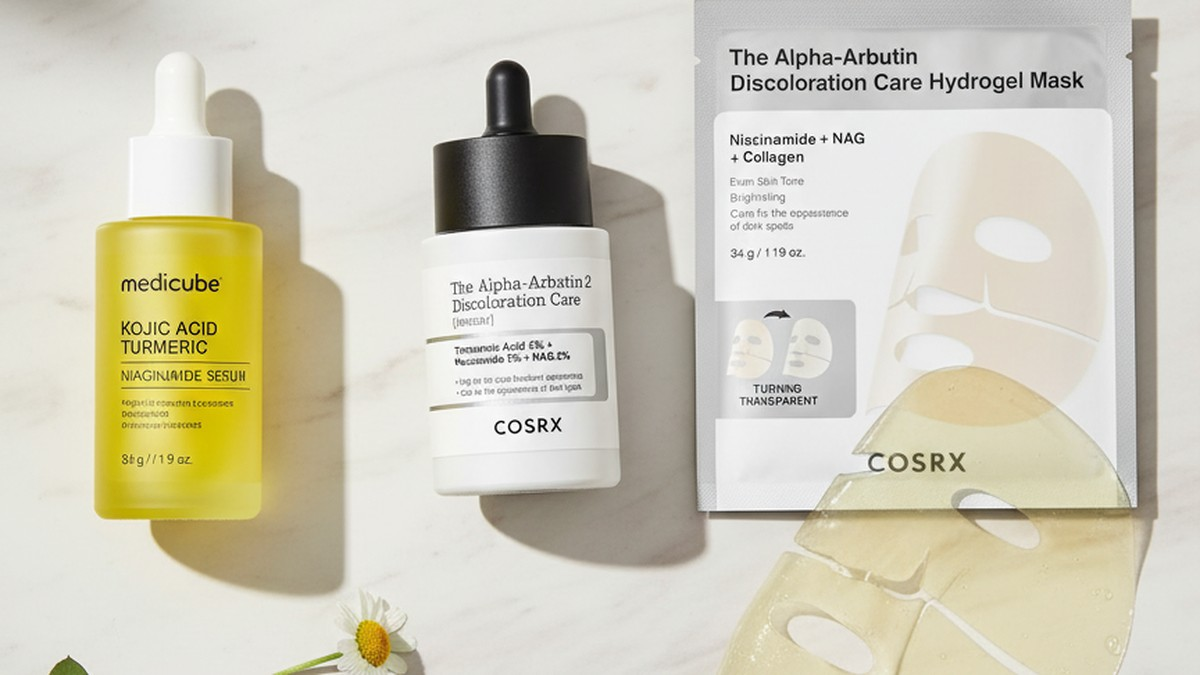
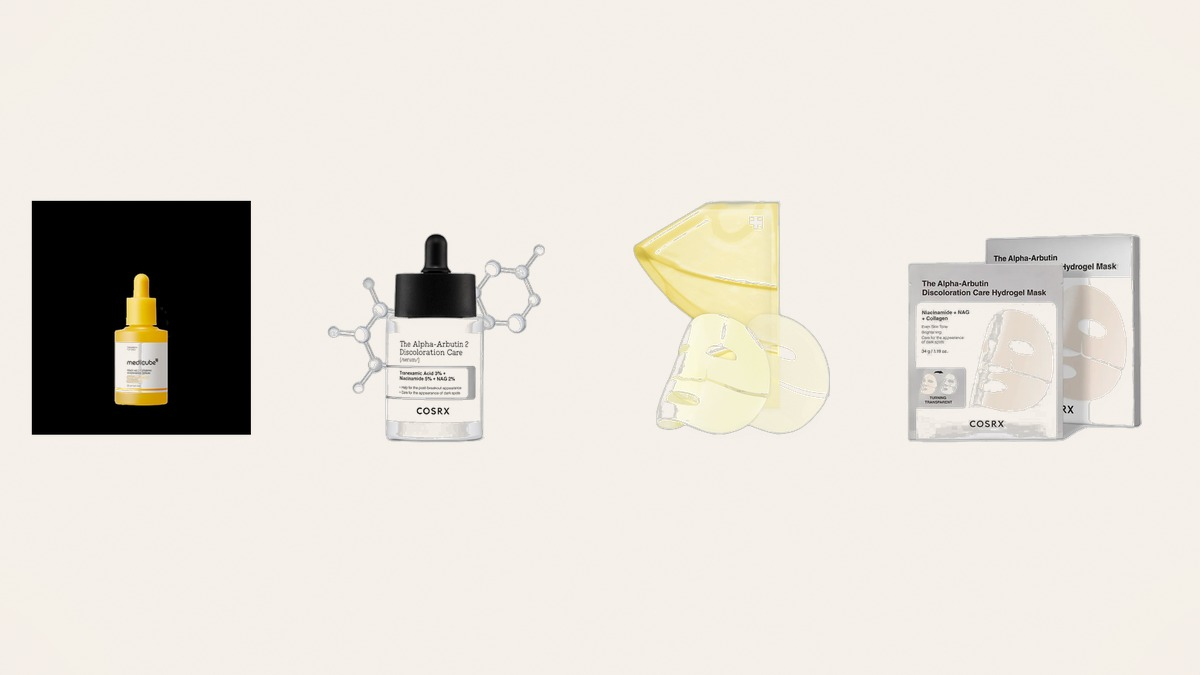
Glow-coded heroes: replace Gemini-composed images with PIL composites of real Shopify product photos
Previous Gemini 2.5 Flash Image regeneration garbled all label text — products
looked authentic at a glance but failed close inspection (e.g. "Cotton" became
"Cetom", "Synergy" became "STNERGY", ingredient lists became gibberish).

New pipeline composites the actual Shopify og:image product photos with PIL —
no AI involvement on product pixels. Labels, brand names, ingredient lists, and
Korean characters are preserved exactly as they came from mirai-skin.com.

Per-article logic:
- "X vs Y" articles → 2-up side-by-side, balanced one product per brand
- Listicles / guides → 3-4 product grid composition
- Soft cream background + transparent product cutouts via near-white masking
- 1200×675 16:9 output at JPEG q92

30/30 composed, 0 failures. Build verified clean (800 pages).

diff --git a/scripts/compose_hero_pil.py b/scripts/compose_hero_pil.py
@@ -1,0 +1,360 @@
+#!/usr/bin/env python3
+"""
+Build hero images by COMPOSITING real Shopify product photos with PIL.
+
+No AI involvement on the product pixels — labels, text, ingredients stay
+exactly as they came from mirai-skin.com. PIL handles:
+  - Layout (2-up for comparisons, 3-4 grid for listicles)
+  - Soft cream/marble background
+  - Drop shadows
+  - Crop to 1200×675 (16:9)
+
+Usage:
+    python3 scripts/compose_hero_pil.py --site cosmetics
+    python3 scripts/compose_hero_pil.py --site cosmetics --slug <slug>
+    python3 scripts/compose_hero_pil.py --site cosmetics --dry-run
+"""
+from __future__ import annotations
+import argparse
+import io
+import os
+import re
+import sys
+import time
+from pathlib import Path
+from urllib.parse import urljoin
+
+import requests
+from PIL import Image, ImageFilter, ImageDraw
+
+ROOT = Path(__file__).resolve().parent.parent
+PRODUCTS_CACHE = Path("/tmp/hero-gen-from-article/products")
+PRODUCTS_CACHE.mkdir(parents=True, exist_ok=True)
+
+SITES = {
+    "cosmetics": ROOT / "cosmetics",
+    "wellness": ROOT / "wellness",
+    "build-coded": ROOT / "build-coded",
+}
+
+session = requests.Session()
+session.headers.update({
+    "User-Agent": "Mozilla/5.0 (Macintosh; Intel Mac OS X 10_15_7) AppleWebKit/537.36 Chrome/124 Safari/537.36",
+    "Accept": "text/html,application/xhtml+xml,application/xml;q=0.9,image/*,*/*;q=0.8",
+})
+
+PRODUCT_LINK_RE = re.compile(r"mirai-skin\.com/products/([a-z0-9-]+)", re.I)
+
+# Hero canvas
+W, H = 1200, 675
+
+# Soft cream-marble background (procedural, no external file needed)
+def make_background():
+    bg = Image.new("RGB", (W, H), (250, 245, 238))
+    # Add subtle veining via overlaid noise
+    noise = Image.effect_noise((W, H), 8).convert("RGB")
+    bg = Image.blend(bg, noise, 0.04)
+    # Soft vignette
+    vignette = Image.new("L", (W, H), 0)
+    d = ImageDraw.Draw(vignette)
+    d.ellipse((-200, -150, W + 200, H + 150), fill=255)
+    vignette = vignette.filter(ImageFilter.GaussianBlur(120))
+    bg.putalpha(vignette)
+    final = Image.new("RGB", (W, H), (242, 235, 226))
+    final.paste(bg, (0, 0), bg)
+    return final
+
+
+def parse_mdx(path: Path):
+    text = path.read_text()
+    m = re.match(r"^---\s*\n(.*?)\n---\s*\n(.*)$", text, re.S)
+    if not m:
+        return None, None
+    return m.group(1), m.group(2)
+
+
+def download_product_image(handle: str) -> Path | None:
+    cache = PRODUCTS_CACHE / f"{handle}.jpg"
+    if cache.exists() and cache.stat().st_size > 8000:
+        return cache
+    page = f"https://mirai-skin.com/products/{handle}"
+    try:
+        r = session.get(page, timeout=15, allow_redirects=True)
+        if r.status_code != 200:
+            return None
+        m = re.search(r'<meta\s+property="og:image"\s+content="([^"]+)"', r.text)
+        if not m:
+            return None
+        img_url = m.group(1)
+        if img_url.startswith("//"):
+            img_url = "https:" + img_url
+        elif not img_url.startswith("http"):
+            img_url = urljoin(page, img_url)
+        img_url = re.sub(r"\?.*$", "", img_url)
+        rr = session.get(img_url, timeout=20)
+        if rr.status_code != 200:
+            return None
+        cache.write_bytes(rr.content)
+        return cache
+    except Exception as e:
+        print(f"      [{handle}] download error: {e}")
+        return None
+
+
+def trim_to_content(img: Image.Image, threshold=240) -> Image.Image:
+    """Crop near-white borders (most Shopify shots are on pure white)."""
+    rgb = img.convert("RGB")
+    bbox = None
+    # Get the bounding box of non-white pixels
+    grayscale = rgb.point(lambda v: 0 if v >= threshold else 255).convert("L")
+    bbox = grayscale.getbbox()
+    if bbox:
+        # add 6% margin
+        x1, y1, x2, y2 = bbox
+        mx = int((x2 - x1) * 0.06)
+        my = int((y2 - y1) * 0.06)
+        x1 = max(0, x1 - mx); y1 = max(0, y1 - my)
+        x2 = min(rgb.width, x2 + mx); y2 = min(rgb.height, y2 + my)
+        rgb = rgb.crop((x1, y1, x2, y2))
+    return rgb
+
+
+def make_alpha_from_white(img: Image.Image, white_threshold=245) -> Image.Image:
+    """Make near-white pixels transparent so the product sits on the background.
+    Simple heuristic — works for clean Shopify product shots on white BG."""
+    img = img.convert("RGBA")
+    pixels = img.getdata()
+    new = []
+    for r, g, b, a in pixels:
+        if r >= white_threshold and g >= white_threshold and b >= white_threshold:
+            new.append((r, g, b, 0))
+        elif r >= 230 and g >= 230 and b >= 230:
+            # Soft edge — partial transparency for anti-aliasing
+            alpha = max(0, 255 - (min(r, g, b) - 230) * 25)
+            new.append((r, g, b, alpha))
+        else:
+            new.append((r, g, b, a))
+    img.putdata(new)
+    return img
+
+
+def add_shadow(img: Image.Image, offset=(8, 12), blur=14, opacity=70) -> Image.Image:
+    """Add a soft drop shadow under a product (RGBA)."""
+    shadow_layer = Image.new("RGBA", (img.width + offset[0]*2 + blur*2,
+                                       img.height + offset[1]*2 + blur*2), (0, 0, 0, 0))
+    # Shadow is a blurred copy of the product silhouette, dark
+    silhouette = Image.new("RGBA", img.size, (0, 0, 0, 0))
+    sil_pixels = []
+    for r, g, b, a in img.getdata():
+        sil_pixels.append((40, 40, 40, int(a * opacity / 255)))
+    silhouette.putdata(sil_pixels)
+    shadow_layer.paste(silhouette, (offset[0] + blur, offset[1] + blur), silhouette)
+    shadow_layer = shadow_layer.filter(ImageFilter.GaussianBlur(blur))
+    # Now paste original on top
+    final = Image.new("RGBA", shadow_layer.size, (0, 0, 0, 0))
+    final.paste(shadow_layer, (0, 0), shadow_layer)
+    final.paste(img, (blur, blur), img)
+    return final
+
+
+def fit_product(img: Image.Image, max_h: int) -> Image.Image:
+    """Resize so height is max_h, maintaining aspect."""
+    if img.height == max_h:
+        return img
+    new_w = int(img.width * (max_h / img.height))
+    return img.resize((new_w, max_h), Image.LANCZOS)
+
+
+def compose_2_up(products: list[Path], out_path: Path):
+    """Side-by-side comparison layout."""
+    bg = make_background()
+    target_h = int(H * 0.72)
+    items = []
+    for p in products[:2]:
+        img = Image.open(p)
+        img = trim_to_content(img)
+        img = make_alpha_from_white(img)
+        img = fit_product(img, target_h)
+        img = add_shadow(img)
+        items.append(img)
+    if len(items) < 2:
+        return False
+    # Center two products with gap
+    gap = 80
+    total_w = items[0].width + items[1].width + gap
+    x = (W - total_w) // 2
+    y = (H - max(items[0].height, items[1].height)) // 2
+    for img in items:
+        bg.paste(img, (x, y + (H - img.height) // 2 - y), img)
+        x += img.width + gap
+    bg.save(out_path, "JPEG", quality=92)
+    return True
+
+
+def compose_grid(products: list[Path], out_path: Path):
+    """3-4 product flat-lay grid."""
+    bg = make_background()
+    n = len(products[:4])
+    target_h = int(H * 0.55) if n <= 3 else int(H * 0.45)
+    items = []
+    for p in products[:4]:
+        img = Image.open(p)
+        img = trim_to_content(img)
+        img = make_alpha_from_white(img)
+        img = fit_product(img, target_h)
+        img = add_shadow(img)
+        items.append(img)
+    if len(items) < 2:
+        return False
+
+    if n == 2:
+        return compose_2_up(products, out_path)
+    if n == 3:
+        # Triangle: 2 on top, 1 centered below
+        gap_x = 60
+        top_total = items[0].width + items[1].width + gap_x
+        x = (W - top_total) // 2
+        y = int(H * 0.05)
+        bg.paste(items[0], (x, y), items[0])
+        bg.paste(items[1], (x + items[0].width + gap_x, y), items[1])
+        x3 = (W - items[2].width) // 2
+        y3 = H - items[2].height - int(H * 0.05)
+        bg.paste(items[2], (x3, y3), items[2])
+    else:
+        # 4 = single row spread across width with slight stagger for editorial feel
+        gap = 30
+        total_w = sum(it.width for it in items[:4]) + gap * 3
+        if total_w > W - 60:
+            scale = (W - 60) / total_w
+            items = [fit_product(it, int(it.height * scale)) for it in items[:4]]
+            total_w = sum(it.width for it in items[:4]) + gap * 3
+        x = (W - total_w) // 2
+        y_center = H // 2
+        for i, img in enumerate(items[:4]):
+            stagger = -10 if i % 2 == 0 else 10
+            bg.paste(img, (x, y_center - img.height // 2 + stagger), img)
+            x += img.width + gap
+
+    bg.save(out_path, "JPEG", quality=92)
+    return True
+
+
+def slug_from_handle_pair(slug: str) -> tuple[str, str] | None:
+    """For X-vs-Y articles, extract the two key terms."""
+    m = re.match(r"^(.+?)-vs-(.+)$", slug)
+    if m:
+        return m.group(1), m.group(2)
+    return None
+
+
+def collect_drafts(site_dir: Path):
+    en = site_dir / "src" / "content" / "blog" / "en"
+    out = []
+    for f in sorted(en.glob("*.mdx")):
+        fm, body = parse_mdx(f)
+        if not fm or body is None:
+            continue
+        is_draft = bool(re.search(r"^draft:\s*true\s*$", fm, re.M))
+        if not is_draft:
+            continue
+        title_m = re.search(r'title:\s*"([^"]+)"', fm)
+        image_m = re.search(r"^image:\s*([^\n]+)", fm, re.M)
+        handles = list(dict.fromkeys(PRODUCT_LINK_RE.findall(body)))
+        if not handles:
+            continue
+
+        # For "X vs Y" articles, pick one handle from each side of the comparison.
+        # Match by brand keywords in the handle, NOT by accidental token overlap.
+        title = title_m.group(1) if title_m else f.stem
+        is_comparison = " vs " in title.lower()
+        if is_comparison:
+            pair = slug_from_handle_pair(f.stem)
+            if pair:
+                left, right = pair
+                # Use first 2 tokens as brand keywords (e.g. "abib-heartleaf" → ["abib", "heartleaf"])
+                left_kws = left.split("-")[:2]
+                right_kws = right.split("-")[:2]
+
+                def matches_side(handle: str, side_kws: list, other_kws: list) -> bool:
+                    # Must include at least one side keyword AND not be dominated by other-side keyword
+                    h_lower = handle.lower()
+                    has_side = any(kw in h_lower for kw in side_kws)
+                    # Exclude if it leads with the OTHER side's primary brand
+                    starts_other = any(h_lower.startswith(kw + "-") for kw in other_kws[:1])
+                    return has_side and not starts_other
+
+                left_match = next((h for h in handles if matches_side(h, left_kws, right_kws)), None)
+                right_match = next((h for h in handles if matches_side(h, right_kws, left_kws) and h != left_match), None)
+
+                if left_match and right_match:
+                    handles = [left_match, right_match]
+                else:
+                    # Couldn't balance — keep the original ordering but cap to 2
+                    handles = handles[:2]
+
+        out.append({
+            "path": f,
+            "slug": f.stem,
+            "title": title,
+            "image_rel": image_m.group(1).strip() if image_m else f"/images/{f.stem}.jpg",
+            "handles": handles[:4],
+            "is_comparison": " vs " in title.lower(),
+        })
+    return out
+
+
+def main():
+    ap = argparse.ArgumentParser()
+    ap.add_argument("--site", required=True, choices=list(SITES.keys()))
+    ap.add_argument("--slug")
+    ap.add_argument("--dry-run", action="store_true")
+    ap.add_argument("--limit", type=int)
+    args = ap.parse_args()
+
+    site_dir = SITES[args.site]
+    drafts = collect_drafts(site_dir)
+    if args.slug:
+        drafts = [d for d in drafts if d["slug"] == args.slug]
+    if args.limit:
+        drafts = drafts[: args.limit]
+
+    print(f"[{args.site}] {len(drafts)} drafts to compose heroes for\n")
+
+    success, fail = 0, 0
+    for d in drafts:
+        layout = "2-up (vs)" if d["is_comparison"] else f"{len(d['handles'])}-grid"
+        print(f"  → {d['slug']}  [{layout}]")
+        for h in d["handles"][:4]:
+            print(f"    - {h}")
+        if args.dry_run:
+            print()
+            continue
+
+        prod_paths = []
+        for h in d["handles"][:4]:
+            p = download_product_image(h)
+            if p:
+                prod_paths.append(p)
+            else:
+                print(f"    [{h}] FAIL download")
+
+        if len(prod_paths) < 2:
+            print("    SKIP: <2 product photos available\n")
+            fail += 1
+            continue
+
+        out_path = site_dir / "public" / d["image_rel"].lstrip("/")
+        ok = (compose_2_up(prod_paths, out_path) if d["is_comparison"]
+              else compose_grid(prod_paths, out_path))
+        if ok:
+            print(f"    SAVED → {out_path.relative_to(ROOT)}\n")
+            success += 1
+        else:
+            print(f"    FAIL: compose error\n")
+            fail += 1
+
+    print(f"\n[done] {success} composed, {fail} failed")
+
+
+if __name__ == "__main__":
+    main()

diff --git a/scripts/regen_hero_from_article.py b/scripts/regen_hero_from_article.py
@@ -60,12 +60,17 @@ session.headers.update({
 PRODUCT_LINK_RE = re.compile(r"mirai-skin\.com/products/([a-z0-9-]+)", re.I)
 
 GLOW_PROMPT = (
-    "Create a flat-lay product photograph in landscape 16:9 ratio. "
-    "Place these Korean skincare products on a soft cream-colored marble surface "
-    "with diffuse natural lighting and small green botanical accents. "
-    "The products MUST look exactly like these reference photos — same bottles, "
-    "same labels, same colors, same proportions. Do not invent products. "
-    "Premium beauty editorial photography. No text overlays. No watermarks."
+    "Compose a 16:9 landscape flat-lay editorial photograph using the attached product photos.\n\n"
+    "STRICT REQUIREMENTS — read carefully:\n"
+    "1. Use EACH attached product photo verbatim. Do NOT redraw, modify, replace, or invent any product.\n"
+    "2. Preserve every label, logo, brand name, ingredient list, and printed text exactly as it appears in the input photos. "
+    "If you cannot preserve text accurately, DO NOT add or modify text — keep the original pixels.\n"
+    "3. Each input product must appear in the output. None may be removed.\n"
+    "4. You may ONLY enhance the background, lighting, shadow, and add decorative botanical accents around the products.\n"
+    "5. Background: soft cream marble or warm sandstone. Diffuse natural light. Subtle drop shadows.\n"
+    "6. Decorative additions allowed: a few green leaves, sprigs of dried flowers, water droplets — placed AROUND the products, never overlapping their labels.\n"
+    "7. Output must be premium editorial K-beauty magazine quality. No text overlays. No watermarks. No additional products.\n"
+    "Treat this as a photo-compositing task, not an illustration task."
 )
 
 
